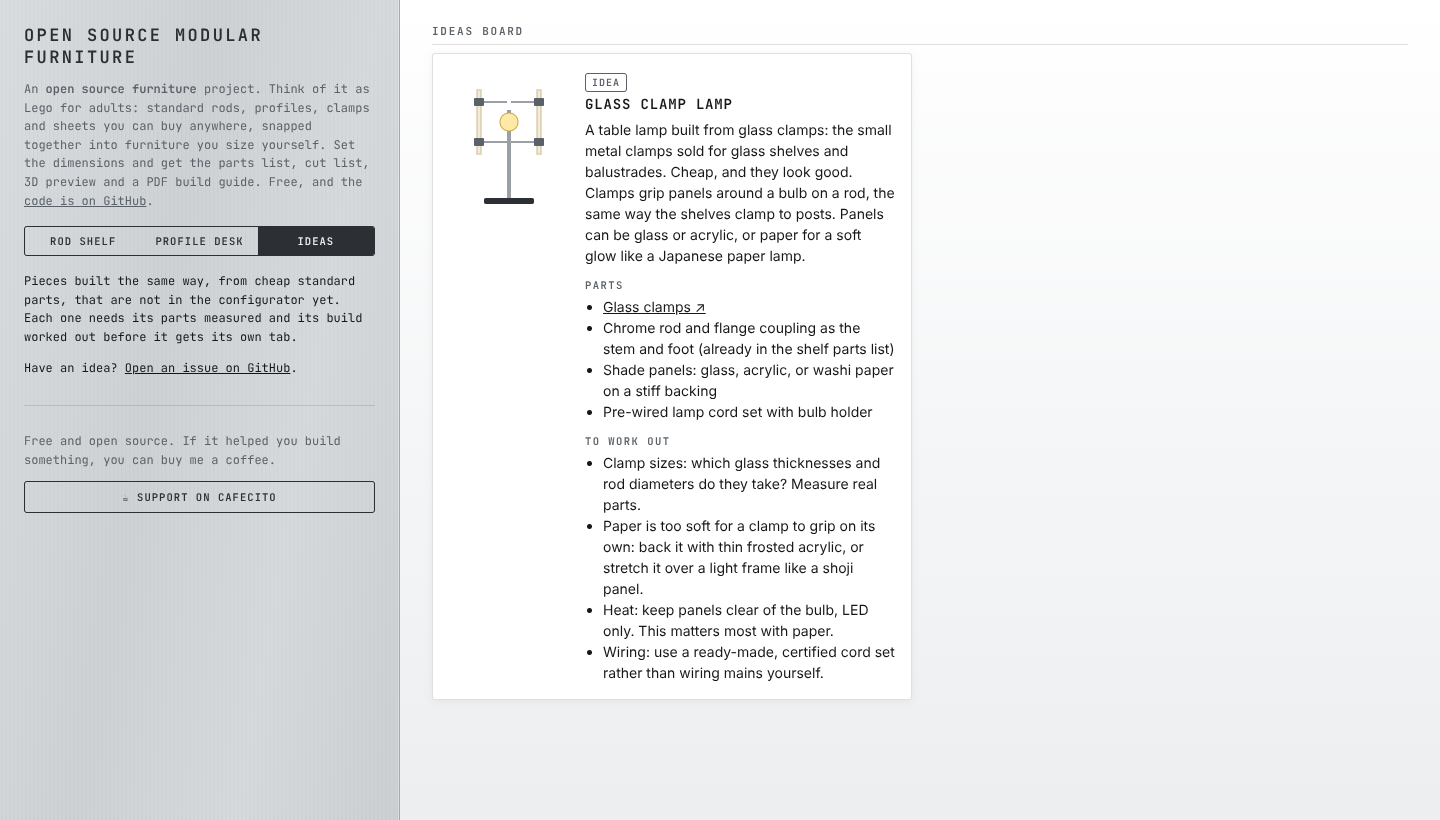
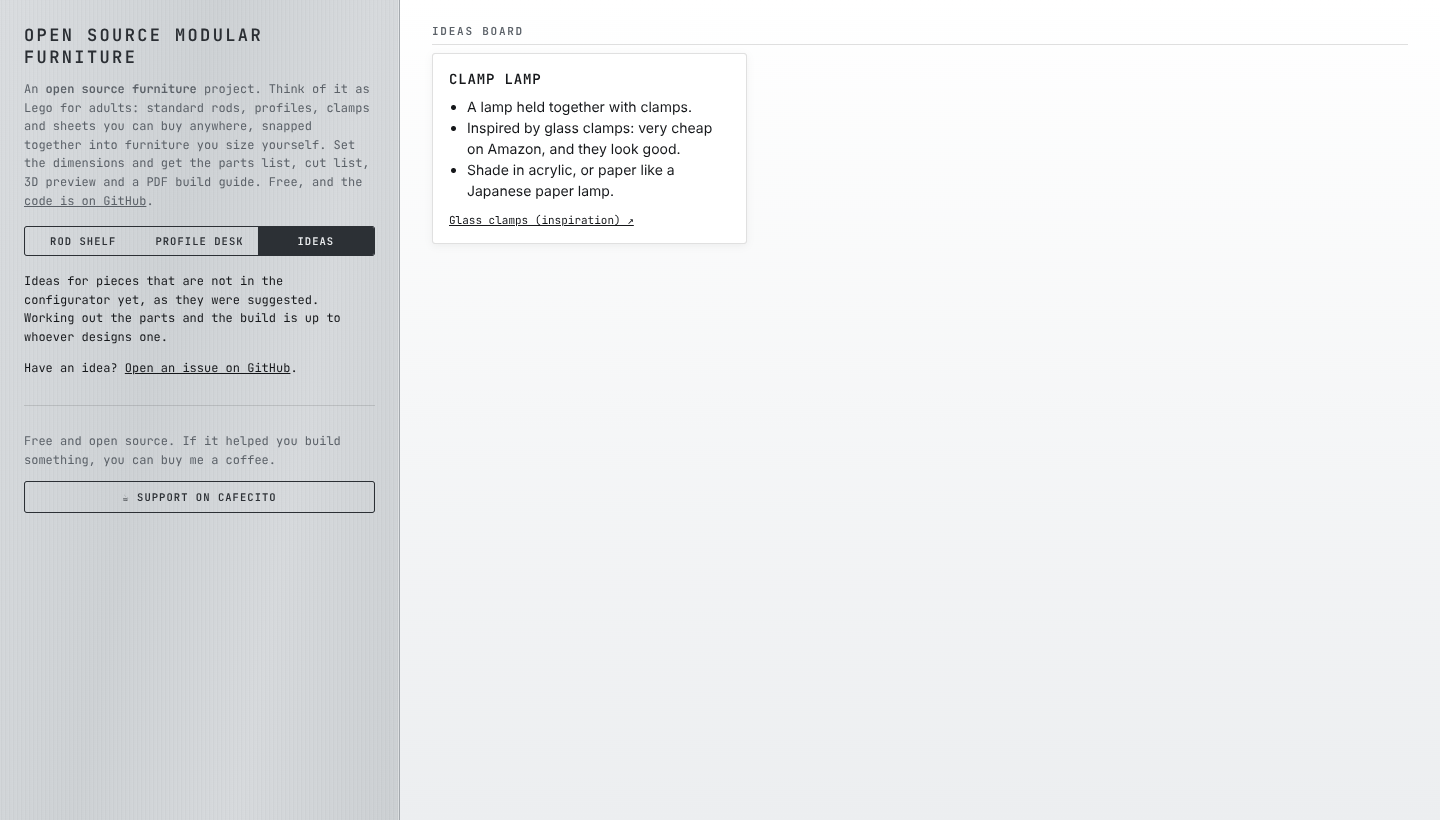
Keep idea cards to the idea as proposed; add the add-idea skill
Cards drop parts, sketches and open questions: those belong to whoever
designs the piece. The lamp becomes a clamp lamp, with glass clamps as
inspiration and an acrylic or paper shade.

The add-idea skill holds these rules and the steps to turn an idea
issue into a card. An issue template asks for the idea and inspiration.

Claude-Session: https://claude.ai/code/session_01An6R87UyTSMBG4BNsnFUWn

Changed region(s): [[0.3125, 0.0915, 0.625, 0.6098], [0.4062, 0.6098, 0.625, 0.8232], [0.0, 0.3354, 0.25, 0.4268]]

diff --git a/src/ideas.js b/src/ideas.js
@@ -1,56 +1,30 @@
-// Ideas board: pieces that use the same off-the-shelf parts approach but are not in the
-// configurator yet. Plain data, so adding one is a new entry here.
+// Ideas board: pieces that are not in the configurator yet. A card records the idea as it
+// was proposed, nothing more: parts, sizes and assembly are worked out later, when someone
+// designs it. Adding one is a new entry here; see .claude/skills/add-idea/SKILL.md.
 
 export const IDEAS = [
   {
-    title: 'Glass clamp lamp',
-    status: 'Idea',
-    summary:
-      'A table lamp built from glass clamps: the small metal clamps sold for glass shelves and balustrades. Cheap, and they look good. Clamps grip panels around a bulb on a rod, the same way the shelves clamp to posts. Panels can be glass or acrylic, or paper for a soft glow like a Japanese paper lamp.',
-    parts: [
-      { name: 'Glass clamps', link: 'https://amzn.eu/d/0eu2PAy3' },
-      { name: 'Chrome rod and flange coupling as the stem and foot (already in the shelf parts list)' },
-      { name: 'Shade panels: glass, acrylic, or washi paper on a stiff backing' },
-      { name: 'Pre-wired lamp cord set with bulb holder' },
+    title: 'Clamp lamp',
+    points: [
+      'A lamp held together with clamps.',
+      'Inspired by glass clamps: very cheap on Amazon, and they look good.',
+      'Shade in acrylic, or paper like a Japanese paper lamp.',
     ],
-    open: [
-      'Clamp sizes: which glass thicknesses and rod diameters do they take? Measure real parts.',
-      'Paper is too soft for a clamp to grip on its own: back it with thin frosted acrylic, or stretch it over a light frame like a shoji panel.',
-      'Heat: keep panels clear of the bulb, LED only. This matters most with paper.',
-      'Wiring: use a ready-made, certified cord set rather than wiring mains yourself.',
-    ],
-    sketch: `<svg viewBox="0 0 120 140" aria-hidden="true">
-      <rect x="35" y="128" width="50" height="6" rx="2" fill="#2c3035"/>
-      <rect x="58" y="40" width="4" height="88" fill="#9aa0a6"/>
-      <circle cx="60" cy="52" r="9" fill="#ffe9a8" stroke="#c9a640"/>
-      <rect x="28" y="20" width="4" height="64" fill="#f4ecd8" stroke="#c8b991"/>
-      <rect x="88" y="20" width="4" height="64" fill="#f4ecd8" stroke="#c8b991"/>
-      <rect x="25" y="28" width="10" height="8" rx="1" fill="#5b6168"/>
-      <rect x="85" y="28" width="10" height="8" rx="1" fill="#5b6168"/>
-      <rect x="25" y="68" width="10" height="8" rx="1" fill="#5b6168"/>
-      <rect x="85" y="68" width="10" height="8" rx="1" fill="#5b6168"/>
-      <line x1="35" y1="32" x2="58" y2="32" stroke="#9aa0a6" stroke-width="2"/>
-      <line x1="62" y1="32" x2="85" y2="32" stroke="#9aa0a6" stroke-width="2"/>
-      <line x1="35" y1="72" x2="58" y2="72" stroke="#9aa0a6" stroke-width="2"/>
-      <line x1="62" y1="72" x2="85" y2="72" stroke="#9aa0a6" stroke-width="2"/>
-    </svg>`,
+    links: [{ name: 'Glass clamps (inspiration)', url: 'https://amzn.eu/d/0eu2PAy3' }],
   },
 ];
 
-const esc = (s) => s.replace(/[&<>"]/g, (c) => ({ '&': '&amp;', '<': '&lt;', '>': '&gt;', '"': '&quot;' })[c]);
+const esc = (s) => String(s).replace(/[&<>"]/g, (c) => ({ '&': '&amp;', '<': '&lt;', '>': '&gt;', '"': '&quot;' })[c]);
 
 export function ideaCard(idea) {
-  const parts = idea.parts
-    .map((p) => `<li>${p.link ? `<a href="${esc(p.link)}" target="_blank" rel="noopener">${esc(p.name)} ↗</a>` : esc(p.name)}</li>`)
-    .join('');
+  const links = [
+    ...(idea.links ?? []),
+    ...(idea.issue ? [{ name: `Issue #${idea.issue}`, url: `https://github.com/mfprado/open-source-modular-furniture/issues/${idea.issue}` }] : []),
+  ];
   return `<article class="idea">
-    <div class="sketch">${idea.sketch ?? ''}</div>
-    <div>
-      <span class="status">${esc(idea.status)}</span>
-      <h3>${esc(idea.title)}</h3>
-      <p>${esc(idea.summary)}</p>
-      <h4>Parts</h4><ul>${parts}</ul>
-      <h4>To work out</h4><ul>${idea.open.map((o) => `<li>${esc(o)}</li>`).join('')}</ul>
-    </div>
+    ${idea.image ? `<img class="photo" src="${esc(idea.image)}" alt="" />` : ''}
+    <h3>${esc(idea.title)}</h3>
+    <ul>${idea.points.map((p) => `<li>${esc(p)}</li>`).join('')}</ul>
+    ${links.length ? `<p class="links">${links.map((l) => `<a href="${esc(l.url)}" target="_blank" rel="noopener">${esc(l.name)} ↗</a>`).join('')}</p>` : ''}
   </article>`;
 }

diff --git a/index.html b/index.html
@@ -118,16 +118,14 @@
     /* ideas board, in place of the 3D view */
     #ideas { height: 100vh; overflow-y: auto; padding: 24px 32px; background: linear-gradient(#fff, #eceef0); }
     #ideas > h2 { margin-top: 0; }
-    #ideaList { display: grid; grid-template-columns: repeat(auto-fill, minmax(420px, 1fr)); gap: 16px; }
-    .idea { display: grid; grid-template-columns: 120px 1fr; gap: 16px; padding: 16px; background: #fff; border: 1px solid var(--line); border-radius: 3px; box-shadow: 0 2px 8px rgba(0,0,0,.05); }
-    .idea .sketch svg { width: 120px; height: 140px; }
-    .idea h3 { margin: 4px 0 6px; font: 600 14px var(--mono); text-transform: uppercase; letter-spacing: .06em; }
-    .idea h4 { margin: 12px 0 4px; font: 600 10.5px var(--mono); text-transform: uppercase; letter-spacing: .14em; color: var(--muted); }
-    .idea p { margin: 0; }
+    #ideaList { display: grid; grid-template-columns: repeat(auto-fill, minmax(300px, 1fr)); gap: 16px; align-items: start; }
+    .idea { padding: 16px; background: #fff; border: 1px solid var(--line); border-radius: 3px; box-shadow: 0 2px 8px rgba(0,0,0,.05); }
+    .idea .photo { display: block; width: 100%; max-height: 200px; object-fit: contain; margin-bottom: 12px; }
+    .idea h3 { margin: 0 0 8px; font: 600 14px var(--mono); text-transform: uppercase; letter-spacing: .06em; }
     .idea ul { margin: 0; padding-left: 18px; }
+    .idea .links { display: flex; flex-wrap: wrap; gap: 4px 14px; margin: 12px 0 0; font: 11px var(--mono); }
     .idea a { color: var(--ink); }
-    .idea .status { font: 600 10px var(--mono); text-transform: uppercase; letter-spacing: .1em; padding: 2px 6px; border: 1px solid var(--muted); border-radius: 3px; color: var(--muted); }
-    @media (max-width: 800px) { main { grid-template-columns: 1fr; height: auto; } aside { order: 2; border-right: 0; } #viewer { height: 60vh; } #ideas { height: auto; padding: 16px; } #ideaList { grid-template-columns: 1fr; } .idea { grid-template-columns: 1fr; } }
+    @media (max-width: 800px) { main { grid-template-columns: 1fr; height: auto; } aside { order: 2; border-right: 0; } #viewer { height: 60vh; } #ideas { height: auto; padding: 16px; } #ideaList { grid-template-columns: 1fr; } }
   </style>
 </head>
 <body>
@@ -167,8 +165,8 @@
         <label>Frame colour <input name="frameColor" type="color" /></label>
       </form>
       <div data-for="ideas">
-        <p>Pieces built the same way, from cheap standard parts, that are not in the configurator yet. Each one needs its parts measured and its build worked out before it gets its own tab.</p>
-        <p>Have an idea? <a href="https://github.com/mfprado/open-source-modular-furniture/issues">Open an issue on GitHub</a>.</p>
+        <p>Ideas for pieces that are not in the configurator yet, as they were suggested. Working out the parts and the build is up to whoever designs one.</p>
+        <p>Have an idea? <a href="https://github.com/mfprado/open-source-modular-furniture/issues/new?template=idea.md">Open an issue on GitHub</a>.</p>
       </div>
       <div data-for="shelf desk">
       <button id="download" type="button">Download spec (PDF)</button>

diff --git a/.claude/skills/add-idea/SKILL.md b/.claude/skills/add-idea/SKILL.md
@@ -1,0 +1,52 @@
+---
+name: add-idea
+description: Adds a furniture idea to the Ideas tab (the ideas board) from a GitHub issue or a description. Use when someone opens an idea issue, says "add this idea", "put this on the ideas board", or gives an issue number to add.
+---
+
+# Add an idea to the board
+
+The Ideas tab collects pieces that are not in the configurator yet. A card records the idea
+**as it was proposed**. It is not a design.
+
+## What a card holds
+
+Each idea is one entry in `IDEAS` in `src/ideas.js`:
+
+```js
+{
+  title: 'Clamp lamp',            // short name of the piece, 1 to 3 words
+  points: [                       // the idea in bullet points, 1 to 4
+    'A lamp held together with clamps.',
+    'Inspired by glass clamps: very cheap on Amazon, and they look good.',
+  ],
+  links: [{ name: 'Glass clamps (inspiration)', url: 'https://…' }], // optional
+  issue: 12,                      // optional: the GitHub issue it came from
+  image: 'https://…',             // optional: a picture the proposer shared
+}
+```
+
+## Rules
+
+- **Keep the proposer's idea and words.** Shorten and tidy, but don't change what they said
+  or add to it.
+- **Products named are inspiration, not a parts list.** Write "inspired by glass clamps",
+  not "uses glass clamps". Name what the link is in its `name`, e.g. "(inspiration)".
+- **No design work.** Don't add parts lists, sizes, assembly steps, feasibility concerns,
+  safety notes or open questions. Working those out is the designer's creative process,
+  later. If the proposer included them, keep them only if they are the idea itself.
+- **Don't invent facts.** No prices, sizes or specs that the issue doesn't give. If a link
+  can't be read, keep it with a plain name and don't describe what's behind it.
+- **Images only from the issue.** Use a picture the proposer attached (its
+  `github.com/user-attachments/…` URL). Never hotlink shop images.
+- New ideas go at the end of `IDEAS`.
+
+## Steps
+
+1. Read the issue (title, body, comments from the proposer). If the idea isn't clear enough
+   for one bullet point, ask on the issue instead of guessing.
+2. Add the entry to `src/ideas.js`, with `issue` set.
+3. Run `node --test`.
+4. Serve the folder (`python3 -m http.server 8000`), open the Ideas tab and take a
+   screenshot of the board.
+5. Open a PR titled `Add idea: <title>`, with the screenshot in the description and
+   `Closes #<issue>`. The issue's job is done once the idea is on the board.

diff --git a/README.md b/README.md
@@ -12,6 +12,13 @@ preview.
 <img width="1491" height="702" alt="Screenshot 2026-10-25 at 10 21 01" src="https://github.com/user-attachments/assets/8ebafba1-bb89-4ac9-928b-7aada4f8760e" />
 <img width="1316" height="739" alt="Screenshot 2026-10-25 at 10 20 23" src="https://github.com/user-attachments/assets/1b1c4d9c-d27e-47c1-ba62-1e0e6279a9f3" />
 
+## Ideas
+
+The Ideas tab is a board of pieces that are not in the configurator yet. Suggest one by
+[opening an issue](https://github.com/mfprado/open-source-modular-furniture/issues/new?template=idea.md).
+Ideas go on the board as proposed. Working out parts and assembly comes later, when someone
+designs the piece. The `add-idea` skill (`.claude/skills/add-idea/`) turns an issue into a card.
+
 ## Construction
 
 - Chrome optical shaft posts stand in flange couplings (feet).

diff --git a/.github/ISSUE_TEMPLATE/idea.md b/.github/ISSUE_TEMPLATE/idea.md
@@ -1,0 +1,12 @@
+---
+name: Furniture idea
+about: Suggest a piece for the Ideas board
+title: "Idea: "
+labels: idea
+---
+
+**What is it?**
+<!-- A sentence or a few bullet points. No need to work out parts or assembly. -->
+
+**Inspiration**
+<!-- Optional: links or pictures of what inspired it. -->
